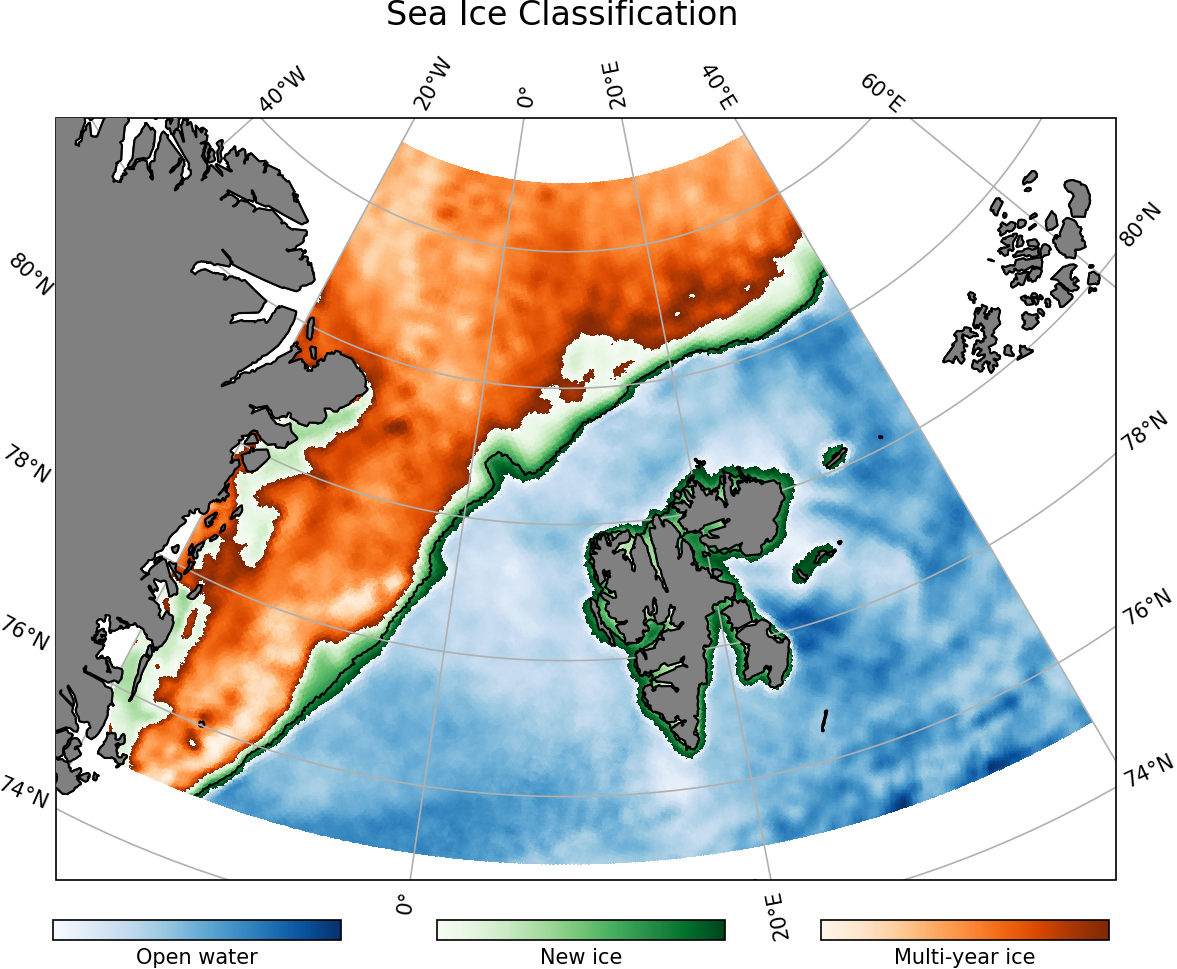
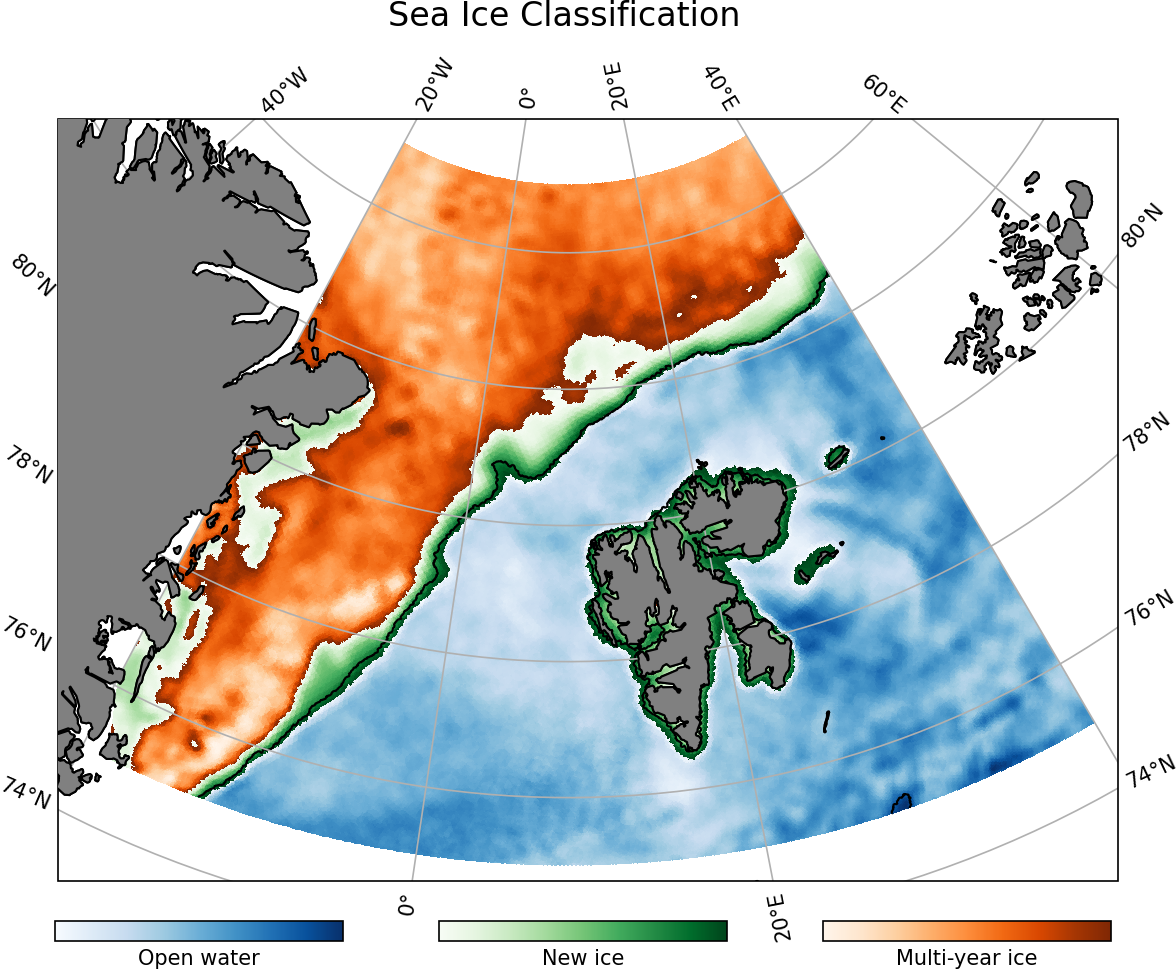
yeah

diff --git a/Brightness_temp.py b/Brightness_temp.py
@@ -152,12 +152,9 @@ def task_3():
 
 def task_4():
     
-    CI_threshold_water = 0.15
-    CI_threshold_new = 0.05
-    
     # spectral gradient ratio
     GR = (tb_36_5v_svalbard - tb_18_7v_svalbard) / (tb_36_5v_svalbard + tb_18_7v_svalbard)
-    GR_H = (tb_36_5h_svalbard - tb_18_7h_svalbard) / (tb_36_5h_svalbard + tb_18_7h_svalbard)
+    GR_85 = (tb_85_0v_svalbard-tb_36_5v_svalbard ) / (tb_85_0v_svalbard+tb_36_5h_svalbard)
     print(GR.max(), GR.min(), "GR")
     
     # Polarization gradient ratio
@@ -167,31 +164,36 @@ def task_4():
     print(PR_18.max(), PR_18.min(), "18")
     print(PR_36.max(), PR_36.min(), "36")
     # Detect the ice edge based on the threshold
-    ice_edge_18 = (PR_18 >= 0) & (PR_18 <= 0.20)#PR_threshold
-    ice_edge_36 = (PR_36 >= 0) & (PR_36 <= 0.12)#PR_threshold
-    ice_edge = ice_edge_18 & ice_edge_36
+    ice_edge_18 = (PR_18 >= 0.02) & (PR_18 <= 0.20) #PR_threshold
+    ice_edge_36 = (PR_36 >= 0.02) & (PR_36 <= 0.11)#PR_threshold
+    ice_edge = ice_edge_18 | ice_edge_36
     
     # Plot the ice edge on a map
-    """ plt.contour(lon, lat, ice_edge, levels=[0.5], colors='white', linewidths=1)
-    plt.contour(lon, lat, ice_edge_18, levels=[0.5], colors='lime', linewidths=1)
+    """ cs1 = plt.contour(lon, lat, ice_edge, levels=[0.5], colors='black', linewidths=1, label='Ice Edge')
+    #plt.contour(lon, lat, ice_edge_18, levels=[0.5], colors='lime', linewidths=1)
     #plt.contour(lon, lat, ice_edge_36, levels=[0.5], colors='black', linewidths=1)
     plt.pcolormesh(lon, lat, ice_edge, cmap='cool')
     #plt.pcolormesh(lon, lat, PR_18, cmap='cool')
     #plt.pcolormesh(lon, lat, PR_36, cmap='cool')
+    plt.text(-6.5, 76.66, 'Ice Edge', fontsize=6, color='black')
     plt.colorbar(label='Ice Edge Detection')
     plt.title('Ice Edge Detection')
     plt.xlabel('Longitude')
     plt.ylabel('Latitude')
     plt.show() """
     
-    open_water = (GR > -0.051) #& (GR < CI_threshold_water)
-    new_ice = (GR > -0.02) & (GR<0.02)   #& (GR <= CI_threshold_new)
-    older_ice = (GR>0.04) & (GR < 0.12) #(open_water | new_ice)    
+    # don't remove
+    open_water = (GR_85 > 0.05) 
+    new_ice =    (GR_85 > -0.02) & (GR < 0.04)   
+    older_ice =  (GR_85 < -0.02) 
     
+    #open_water = (GR_85 > 0.05) #& (GR < CI_threshold_water)
+    #new_ice = (GR_85 > -0.05) & (GR < 0.05)  #& (GR <= CI_threshold_new)
+    #older_ice = (GR_85 < -0.05) 
     
-    open_water_mask = np.ma.masked_where(open_water, GR)
-    new_ice_mask = np.ma.masked_where(new_ice, GR)
-    older_ice_mask = np.ma.masked_where(~older_ice, GR)
+    open_water_mask = np.ma.masked_where(~open_water, GR_85)
+    new_ice_mask = np.ma.masked_where(~new_ice, GR_85)
+    older_ice_mask = np.ma.masked_where(~older_ice, GR_85)
     
     fig = plt.figure(figsize=(10, 8))
     ax = fig.add_subplot(1, 1, 1, projection=target_proj)
@@ -203,20 +205,20 @@ def task_4():
     ax.gridlines(draw_labels=True, y_inline=False)
 
     # Plot the data
-    #c1 = plt.pcolormesh(lon, lat, open_water_mask, transform=ccrs.PlateCarree(), cmap='Blues', alpha=1)
-    #c2 = plt.pcolormesh(lon, lat, new_ice_mask, transform=ccrs.PlateCarree(), cmap='Greens', alpha=1)
+    c1 = plt.pcolormesh(lon, lat, open_water_mask, transform=ccrs.PlateCarree(), cmap='Blues', alpha=1)
+    c2 = plt.pcolormesh(lon, lat, new_ice_mask, transform=ccrs.PlateCarree(), cmap='Greens', alpha=1)
     c3 = plt.pcolormesh(lon, lat, older_ice_mask, transform=ccrs.PlateCarree(), cmap='Oranges', alpha=1)
 
     plt.contour(lon, lat, ice_edge, levels=[0.5], colors='black', linewidths=1, transform = ccrs.PlateCarree())
 
     # Create a colorbar for each pcolormesh
     ax1 = fig.add_axes([0.235, 0.05, 0.15, 0.02])
-    #cb1 = mcolorbar.ColorbarBase(ax1, cmap=c1.cmap, norm=c1.norm, orientation='horizontal')
-    #cb1.set_label("Open water")
+    cb1 = mcolorbar.ColorbarBase(ax1, cmap=c1.cmap, norm=c1.norm, orientation='horizontal')
+    cb1.set_label("Open water")
     ax1.tick_params(labelbottom=False, labeltop=False, bottom=False, top=False)
     ax2 = fig.add_axes([0.435, 0.05, 0.15, 0.02])
-    #cb2 = mcolorbar.ColorbarBase(ax2, cmap=c2.cmap, norm=c2.norm, orientation='horizontal')
-    #cb2.set_label("New ice")
+    cb2 = mcolorbar.ColorbarBase(ax2, cmap=c2.cmap, norm=c2.norm, orientation='horizontal')
+    cb2.set_label("New ice")
     ax2.tick_params(labelbottom=False, labeltop=False, bottom=False, top=False)
     ax3 = fig.add_axes([0.635, 0.05, 0.15, 0.02])
     cb3 = mcolorbar.ColorbarBase(ax3, cmap=c3.cmap, norm=c3.norm, orientation='horizontal')
@@ -231,10 +233,10 @@ def task_4():
 
 def task_5():
     # Calculating how large and area is dominated by sea ice below 5cm tickness
-    Tb_18_5cm_V = 255 # Example value for brightness temperature for 5cm sea ice in Kelvin 
-    Tb_18_5cm_H = 213 # Example value for brightness temperature for 5cm sea ice in Kelvin
-    Tb_36_5cm_V = 255 # Example value for brightness temperature for 5cm sea ice in Kelvin
-    Tb_36_5cm_H = 205 # Example value for brightness temperature for 5cm sea ice in Kelvin
+    Tb_18_5cm_V = 255  
+    Tb_18_5cm_H = 213 
+    Tb_36_5cm_V = 255 
+    Tb_36_5cm_H = 205 
     
     mask_18_5cm_V = (tb_18_7v_svalbard < Tb_18_5cm_V) & (tb_18_7v_svalbard > 175)
     mask_18_5cm_H = (tb_18_7h_svalbard < Tb_18_5cm_H) & (tb_18_7h_svalbard > 80)
@@ -298,8 +300,8 @@ def task_5():
 
 if __name__ == '__main__':
     #task_2()
-    task_3()
-    #task_4()
+    #task_3()
+    task_4()
     #task_5()
     
     
